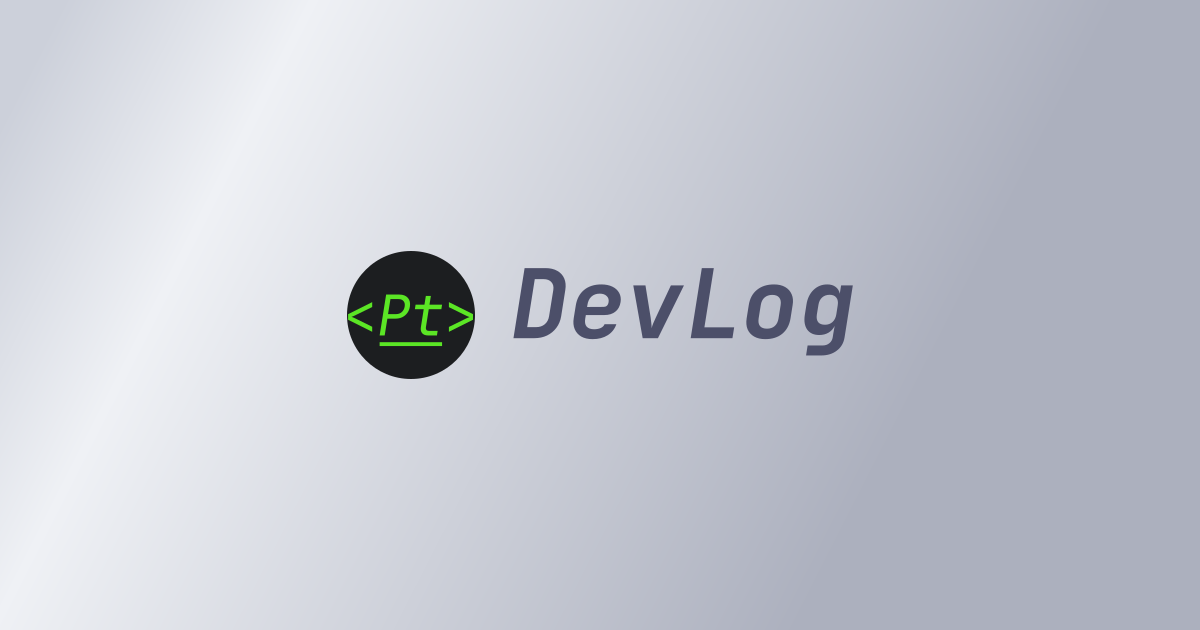
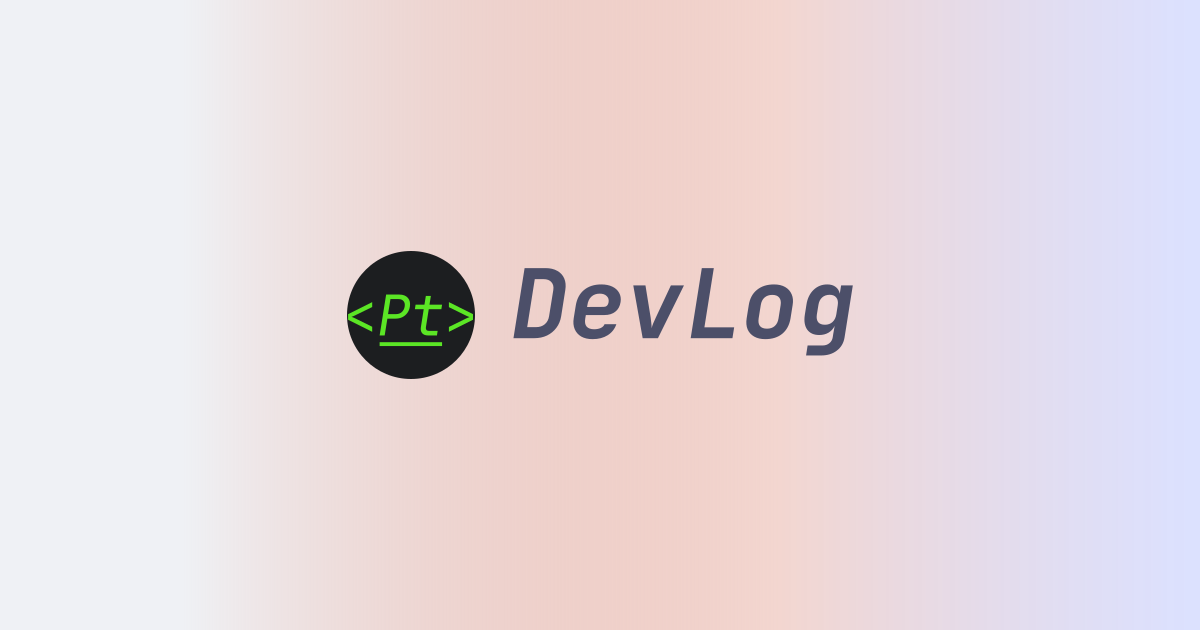
feat: Intro component
Update OG images.
Implement an Intro banner component.
Apply GSAP animation.
Set noscript attribute on JS components.

diff --git a/src/components/ModeToggle.tsx b/src/components/ModeToggle.tsx
@@ -32,7 +32,7 @@ export function ModeToggle({ lang = config.defaultLocale }: Props) {
   return (
     <DropdownMenu>
       <DropdownMenuTrigger asChild>
-        <Button variant="ghost" size="icon">
+        <Button variant="ghost" size="icon" className="noscript:hidden">
           <Sun className="h-[1.2rem] w-[1.2rem] scale-100 rotate-0 transition-all dark:scale-0 dark:-rotate-90" />
           <Moon className="absolute h-[1.2rem] w-[1.2rem] scale-0 rotate-90 transition-all dark:scale-100 dark:rotate-0" />
           <span className="sr-only">Toggle theme</span>

diff --git a/src/components/LangToggle.tsx b/src/components/LangToggle.tsx
@@ -25,7 +25,7 @@ export function LangToggle({ lang = config.defaultLocale, currentUrl }: Props) {
   return (
     <DropdownMenu>
       <DropdownMenuTrigger asChild>
-        <Button variant="ghost" size="icon">
+        <Button variant="ghost" size="icon" className="noscript:hidden">
           <Languages className="h-[1.2rem] w-[1.2rem]" />
           <span className="sr-only">Toggle Locale</span>
         </Button>
